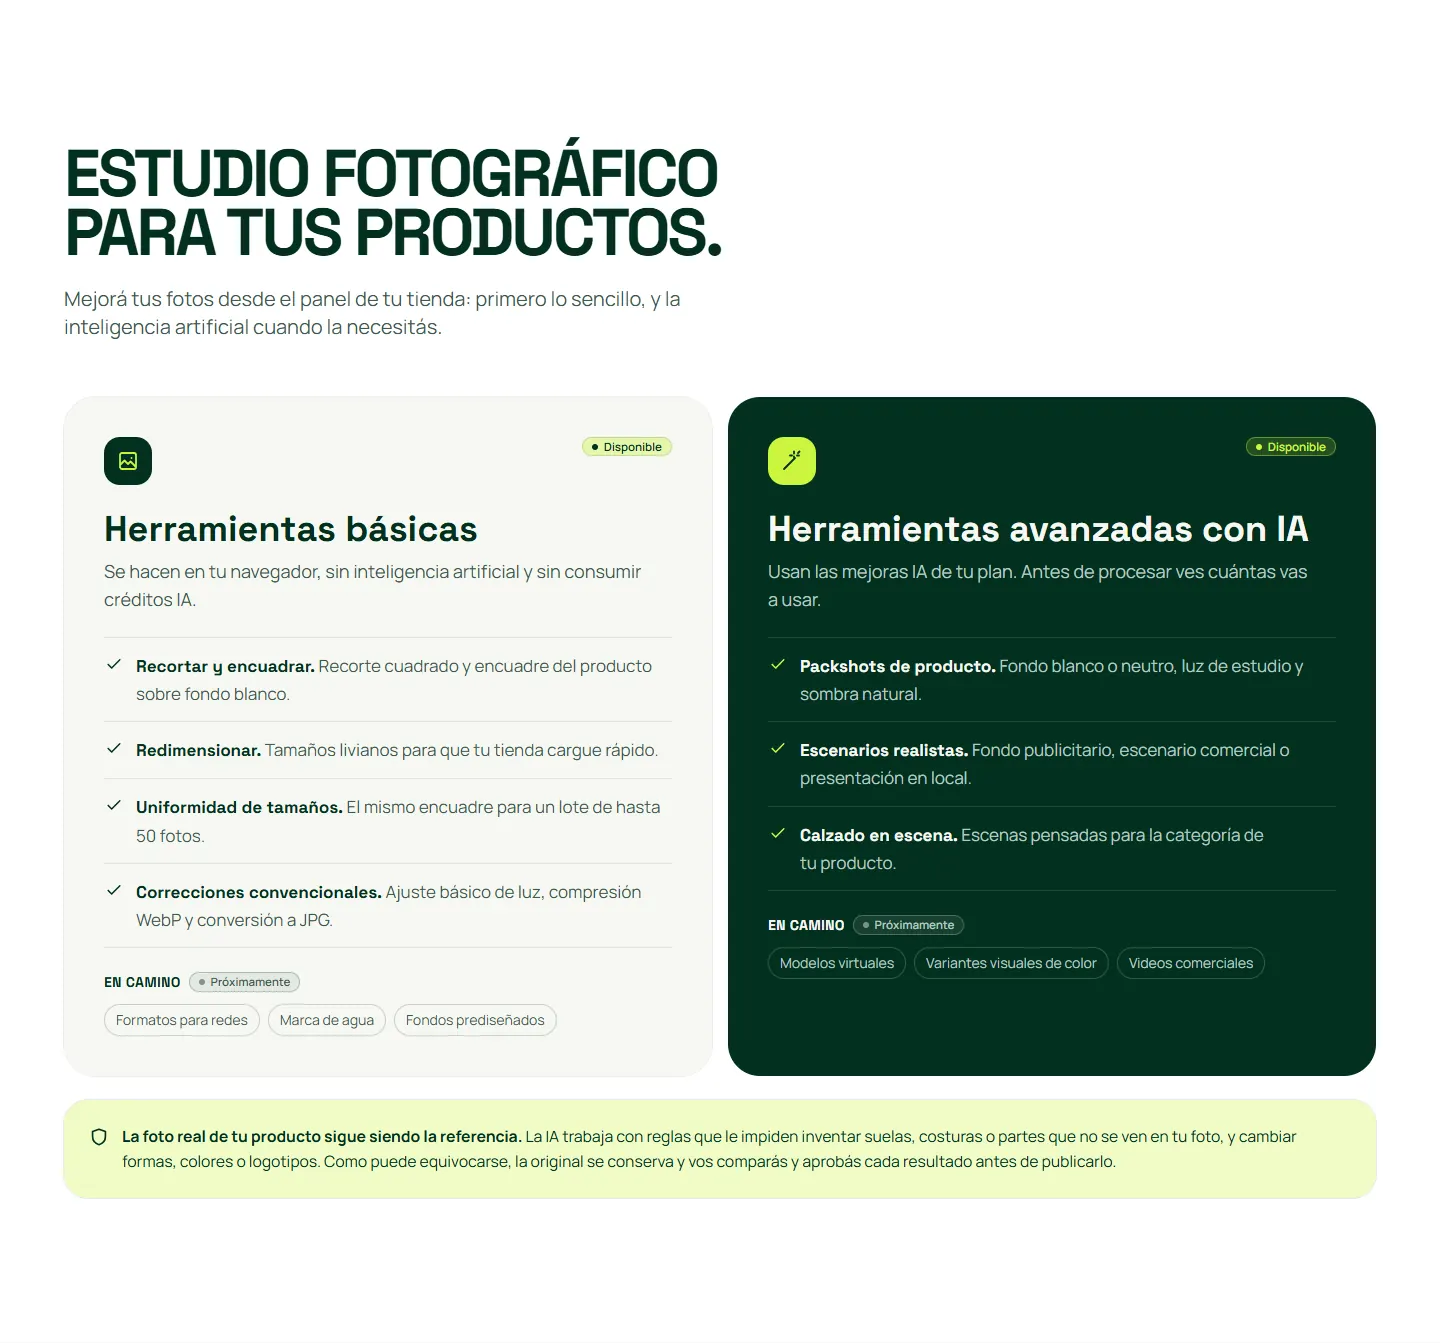
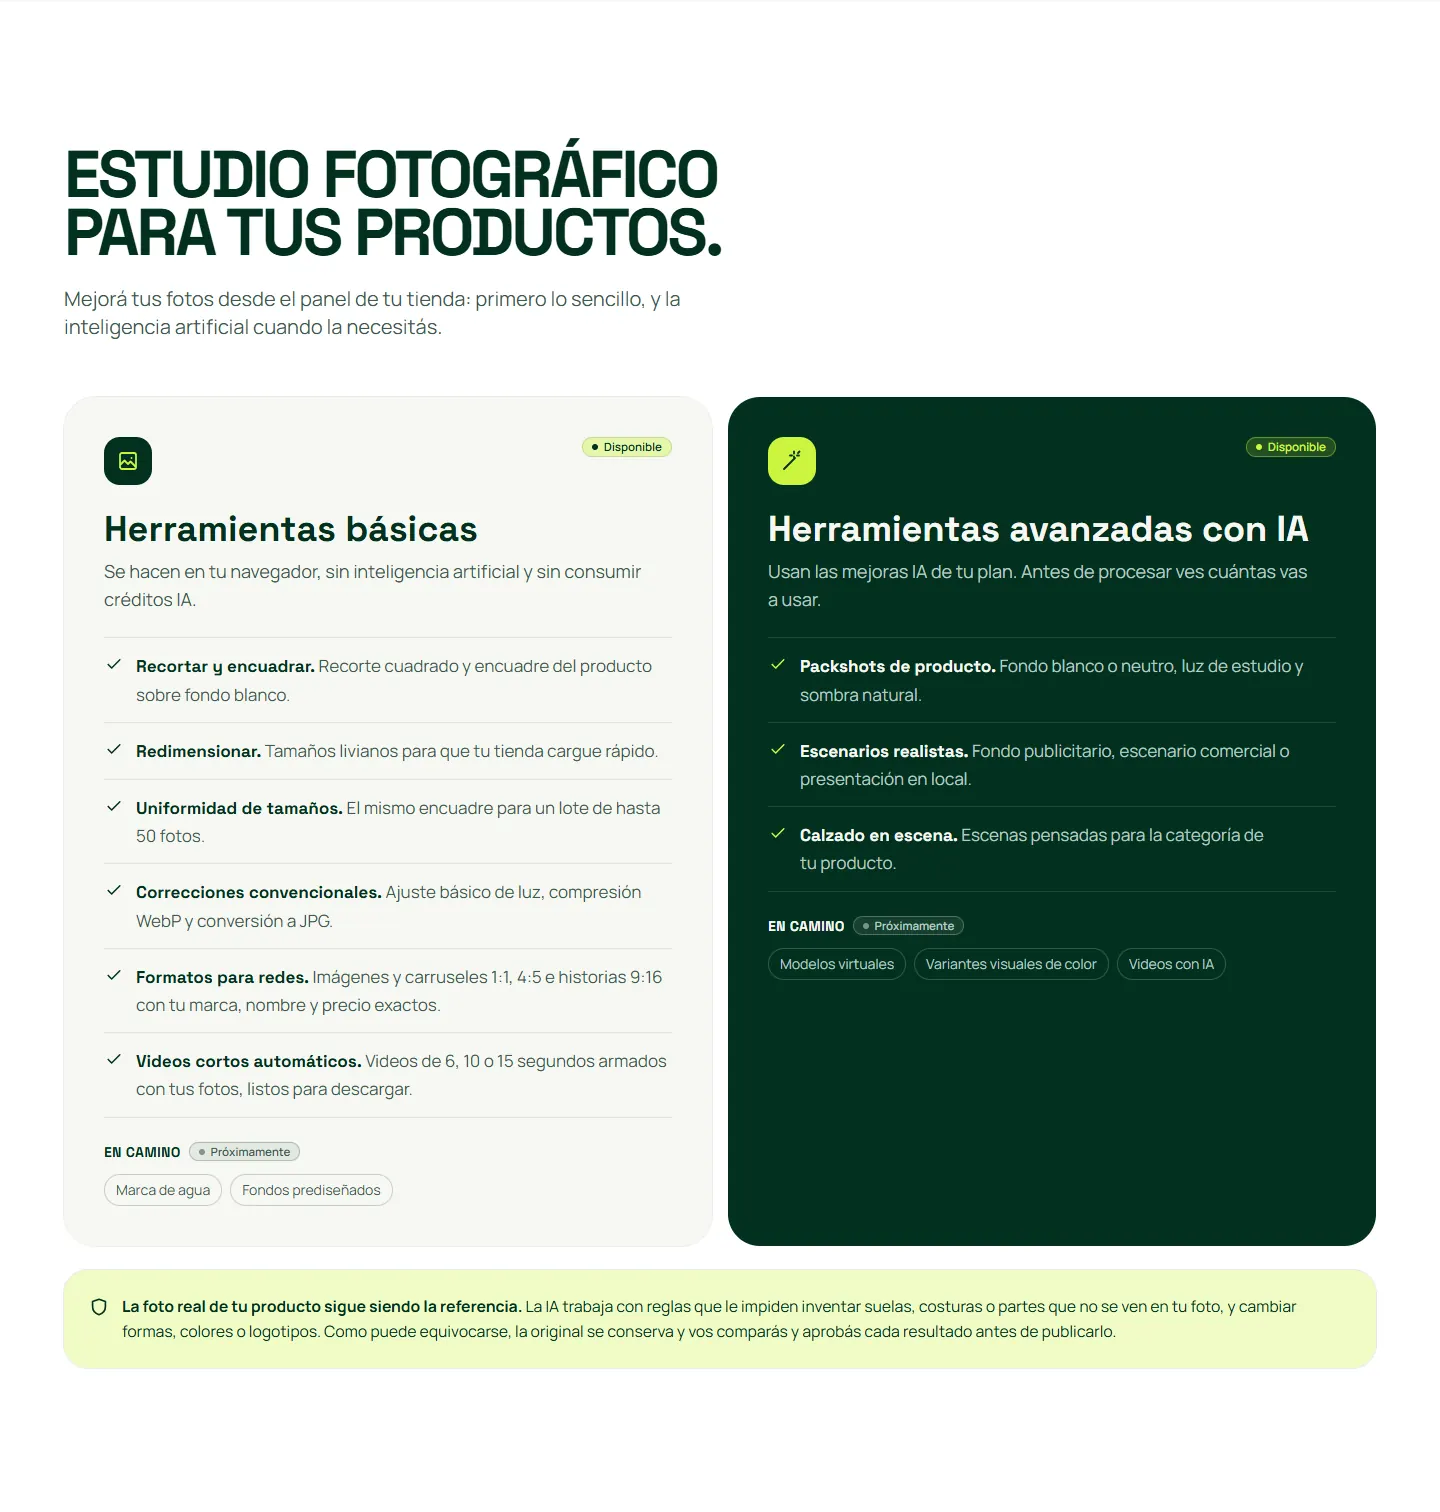
feat(landing): formatos para redes, carruseles y videos automáticos pasan a disponibles
La fábrica de creativos está en producción desde 2026-11-11 en modo convencional
(sin IA ni costo). El video con IA sigue apagado y queda como «Próximamente».

diff --git a/apps/tiendaiaexpress-landing/src/sections/PhotoStudio.tsx b/apps/tiendaiaexpress-landing/src/sections/PhotoStudio.tsx
@@ -1,5 +1,6 @@
 // "Estudio fotográfico para tus productos". Statuses verified against the platform code
-// (docs/ESTUDIO_FOTOGRAFICO_FASE2.md, in production since 2026-11-10). Anything not running in
+// (docs/ESTUDIO_FOTOGRAFICO_FASE2.md, in production since 2026-11-10; docs/FABRICA_CREATIVOS_FASE3.md,
+// conventional mode in production since 2026-11-11, AI video switched off). Anything not running in
 // production is labelled "Próximamente" and kept out of the available list.
 import { Badge, SectionHeading } from '../components/ui/primitives'
 import { Icon } from '../components/ui/Icon'
@@ -11,7 +12,8 @@ const BASIC: Tool[] = [
   { name: 'Redimensionar', detail: 'Tamaños livianos para que tu tienda cargue rápido.' },
   { name: 'Uniformidad de tamaños', detail: 'El mismo encuadre para un lote de hasta 50 fotos.' },
   { name: 'Correcciones convencionales', detail: 'Ajuste básico de luz, compresión WebP y conversión a JPG.' },
-  { name: 'Formatos para redes', detail: 'Piezas cuadradas y verticales para publicar.', soon: true },
+  { name: 'Formatos para redes', detail: 'Imágenes y carruseles 1:1, 4:5 e historias 9:16 con tu marca, nombre y precio exactos.' },
+  { name: 'Videos cortos automáticos', detail: 'Videos de 6, 10 o 15 segundos armados con tus fotos, listos para descargar.' },
   { name: 'Marca de agua', detail: 'Tu logo sobre tus fotos.', soon: true },
   { name: 'Fondos prediseñados', detail: 'Fondos listos para elegir.', soon: true },
 ]
@@ -22,7 +24,7 @@ const ADVANCED: Tool[] = [
   { name: 'Calzado en escena', detail: 'Escenas pensadas para la categoría de tu producto.' },
   { name: 'Modelos virtuales', detail: 'Prendas presentadas en una persona generada.', soon: true },
   { name: 'Variantes visuales de color', detail: 'Vistas del mismo producto en otros colores.', soon: true },
-  { name: 'Videos comerciales', detail: 'Videos cortos de tus productos.', soon: true },
+  { name: 'Videos con IA', detail: 'Tu foto real animada por inteligencia artificial.', soon: true },
 ]
 
 function ToolList({ tools, onDark }: { tools: Tool[]; onDark?: boolean }) {

diff --git a/apps/tiendaiaexpress-landing/src/content/plans.ts b/apps/tiendaiaexpress-landing/src/content/plans.ts
@@ -116,23 +116,25 @@ export function planMessage(plan: Pick<Plan, 'name' | 'setup' | 'monthly' | 'ann
 }
 
 /** Optional add-ons. Only what can be offered today; prices only where the owner set one. */
-export const addOns = [
+export type AddOn = { title: string; body: string; price: string; status: 'disponible' | 'consulta' | 'pronto' }
+
+export const addOns: AddOn[] = [
   {
     title: 'Dominio propio',
     body: 'Tu tienda en tu propia dirección (por ejemplo, tunegocio.com), con configuración asistida.',
     price: 'Plan Emprendedor: $99.000 COP al año. Planes Negocio y Mayorista: consultá las condiciones.',
-    status: 'consulta' as const,
+    status: 'consulta',
   },
   {
     title: 'Créditos IA adicionales',
     body: 'Si se terminan las cuotas IA del mes, podés solicitar créditos adicionales desde tu panel.',
     price: 'Valor según la cantidad: te lo confirmamos antes de cargarlos.',
-    status: 'disponible' as const,
+    status: 'disponible',
   },
   {
     title: 'Estudio de contenido',
-    body: 'Piezas para redes y videos cortos de tus productos.',
-    price: '',
-    status: 'pronto' as const,
+    body: 'Imágenes, carruseles y videos cortos para redes con tus productos, desde tu panel. El video con IA llega pronto.',
+    price: 'Incluido en todos los planes, sin consumir créditos IA.',
+    status: 'disponible',
   },
 ]

diff --git a/apps/tiendaiaexpress-landing/src/content/copy.ts b/apps/tiendaiaexpress-landing/src/content/copy.ts
@@ -149,7 +149,7 @@ export const faq = [
   },
   {
     q: '¿Qué funciones de IA están disponibles hoy?',
-    a: 'El asistente de Telegram que entiende tus mensajes, las fichas de producto a partir de una foto, la lectura de listas en PDF, la lectura de guías de envío por foto y el estudio fotográfico con IA (packshots y escenarios). Formatos para redes, modelos virtuales y videos están en camino.',
+    a: 'El asistente de Telegram que entiende tus mensajes, las fichas de producto a partir de una foto, la lectura de listas en PDF, la lectura de guías de envío por foto y el estudio fotográfico con IA (packshots y escenarios). Sin IA y sin costo también creás imágenes, carruseles y videos cortos para redes. Los modelos virtuales y el video con IA están en camino.',
   },
   {
     q: '¿Necesito saber de tecnología?',

diff --git a/docs/LANDING_PLANES_Y_PRECIOS.md b/docs/LANDING_PLANES_Y_PRECIOS.md
@@ -96,16 +96,17 @@ SneakerHub conserva su demostración interactiva; la tarjeta reutiliza su captur
 | Fichas de producto desde una foto | En producción (`foto_a_producto`, 1 crédito) | Disponible |
 | Importación Excel/CSV/PDF | En producción (PDF con IA: `importar_pdf_pagina`, 4 créditos) | Disponible |
 | Herramientas básicas de foto: recorte, encuadre, redimensionar, uniformidad en lote, luz, WebP/JPG | En producción, en el navegador, sin IA | Disponible |
-| Formatos para redes, marca de agua, fondos prediseñados | Formatos para redes en la fase 3 (rama sin publicar); marca de agua y fondos no existen | **Próximamente** |
+| Formatos para redes (1:1, 4:5, 9:16), carruseles y videos cortos automáticos | En producción desde 2026-11-11 (fábrica de creativos, modo convencional, sin IA ni costo) | Disponible (actualizado el 2026-11-11) |
+| Marca de agua, fondos prediseñados | No existen | **Próximamente** |
 | Packshots, escenarios realistas, calzado en escena | En producción (`foto_packshot` 3, `foto_premium` 5 créditos) | Disponible |
-| Modelos virtuales, variantes de color, videos comerciales | No publicados (modelo virtual descartado por fidelidad; video en fase 3 sin desplegar) | **Próximamente** |
+| Modelos virtuales, variantes de color, video con IA | No publicados (modelo virtual descartado por fidelidad; video con IA apagado: sin `GEMINI_VIDEO_MODEL` ni precio de `video_ia_segundo`) | **Próximamente** |
 | Varios administradores con roles | En producción (owner, admin, operator, seller, inventory) | Disponible (Mayorista) |
 | Soporte prioritario | Servicio comercial, no software | Disponible (Mayorista) · **Pendiente de aprobación** del alcance |
 | Reportes comerciales | Solo indicadores básicos del panel | **Próximamente** |
 | Precios al por mayor | No existe | **Próximamente** |
 | Dominio propio | La API resuelve tiendas por dominio, pero ningún dominio está activo y el Worker del panel no recibe dominios de clientes (falta Cloudflare for SaaS o equivalente) | Complemento «Bajo consulta» · **Bloqueado** técnicamente |
 | Créditos IA adicionales | En producción (solicitud desde el panel, aprobación del superadministrador) | Disponible, sin precio |
-| Estudio de contenido | Fase 3 sin publicar | **Próximamente** |
+| Estudio de contenido | Fábrica de creativos en producción (modo convencional); probada en Chromium de escritorio, no en celular, Safari ni Firefox | Disponible, incluido en todos los planes |
 | Cobro en línea | No existe | Se dice claramente que no |
 
 Nota de fidelidad publicada: la foto real es la referencia; la IA trabaja con reglas que le impiden inventar suelas, costuras o partes no visibles, puede equivocarse y cada resultado se compara y aprueba. No se menciona rembg, Real-ESRGAN, Remotion ni VPS, ni costos internos.
